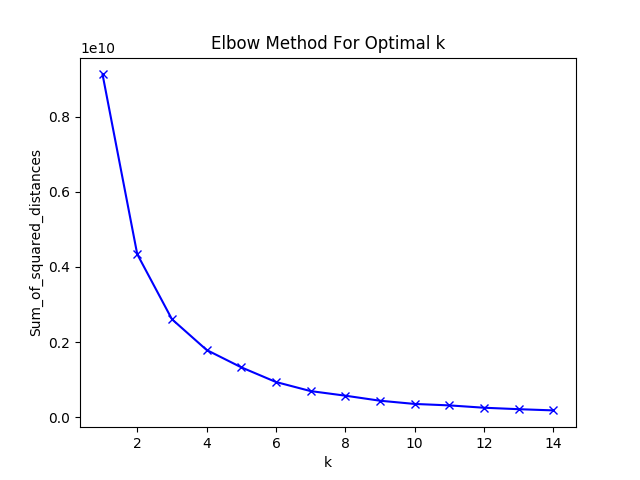
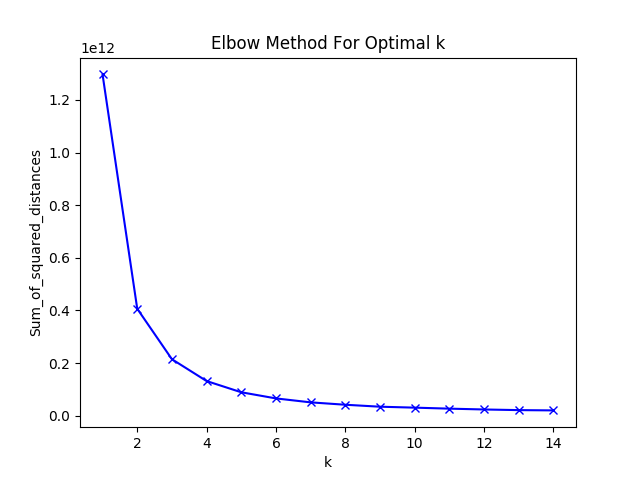
Added KMeans

diff --git a/Elbow.py b/Elbow.py
@@ -11,12 +11,20 @@ from pyspark.sql import SparkSession
 
 spark = SparkSession \
     .builder \
-    .appName("KMeans") \
-    .config("spark.some.config.option", "Angadpreet-KMeans") \
+    .appName("Elbow") \
+    .config("spark.some.config.option", "Angadpreet-Elbow") \
     .getOrCreate()
 today = dt.datetime.today()
 spark_df = spark.read.json("Data/yelp_academic_dataset_user.json").select("review_count", "average_stars", "yelping_since").rdd.map(lambda x: (x[0], x[1], (par.parse(x[2])-today).days))
 vector_df = spark_df.map(lambda s : Vectors.dense(s))
-km = KMeans()
-kme = km.train(vector_df, 3)
-print(kme.computeCost(vector_df))
+Sum_of_squared_distances = []
+K = range(1,15)
+for k in K:
+    km = KMeans()
+    kme = km.train(vector_df, k)
+    Sum_of_squared_distances.append(kme.computeCost(vector_df))
+plt.plot(K, Sum_of_squared_distances, 'bx-')
+plt.xlabel('k')
+plt.ylabel('Sum_of_squared_distances')
+plt.title('Elbow Method For Optimal k')
+plt.show()
